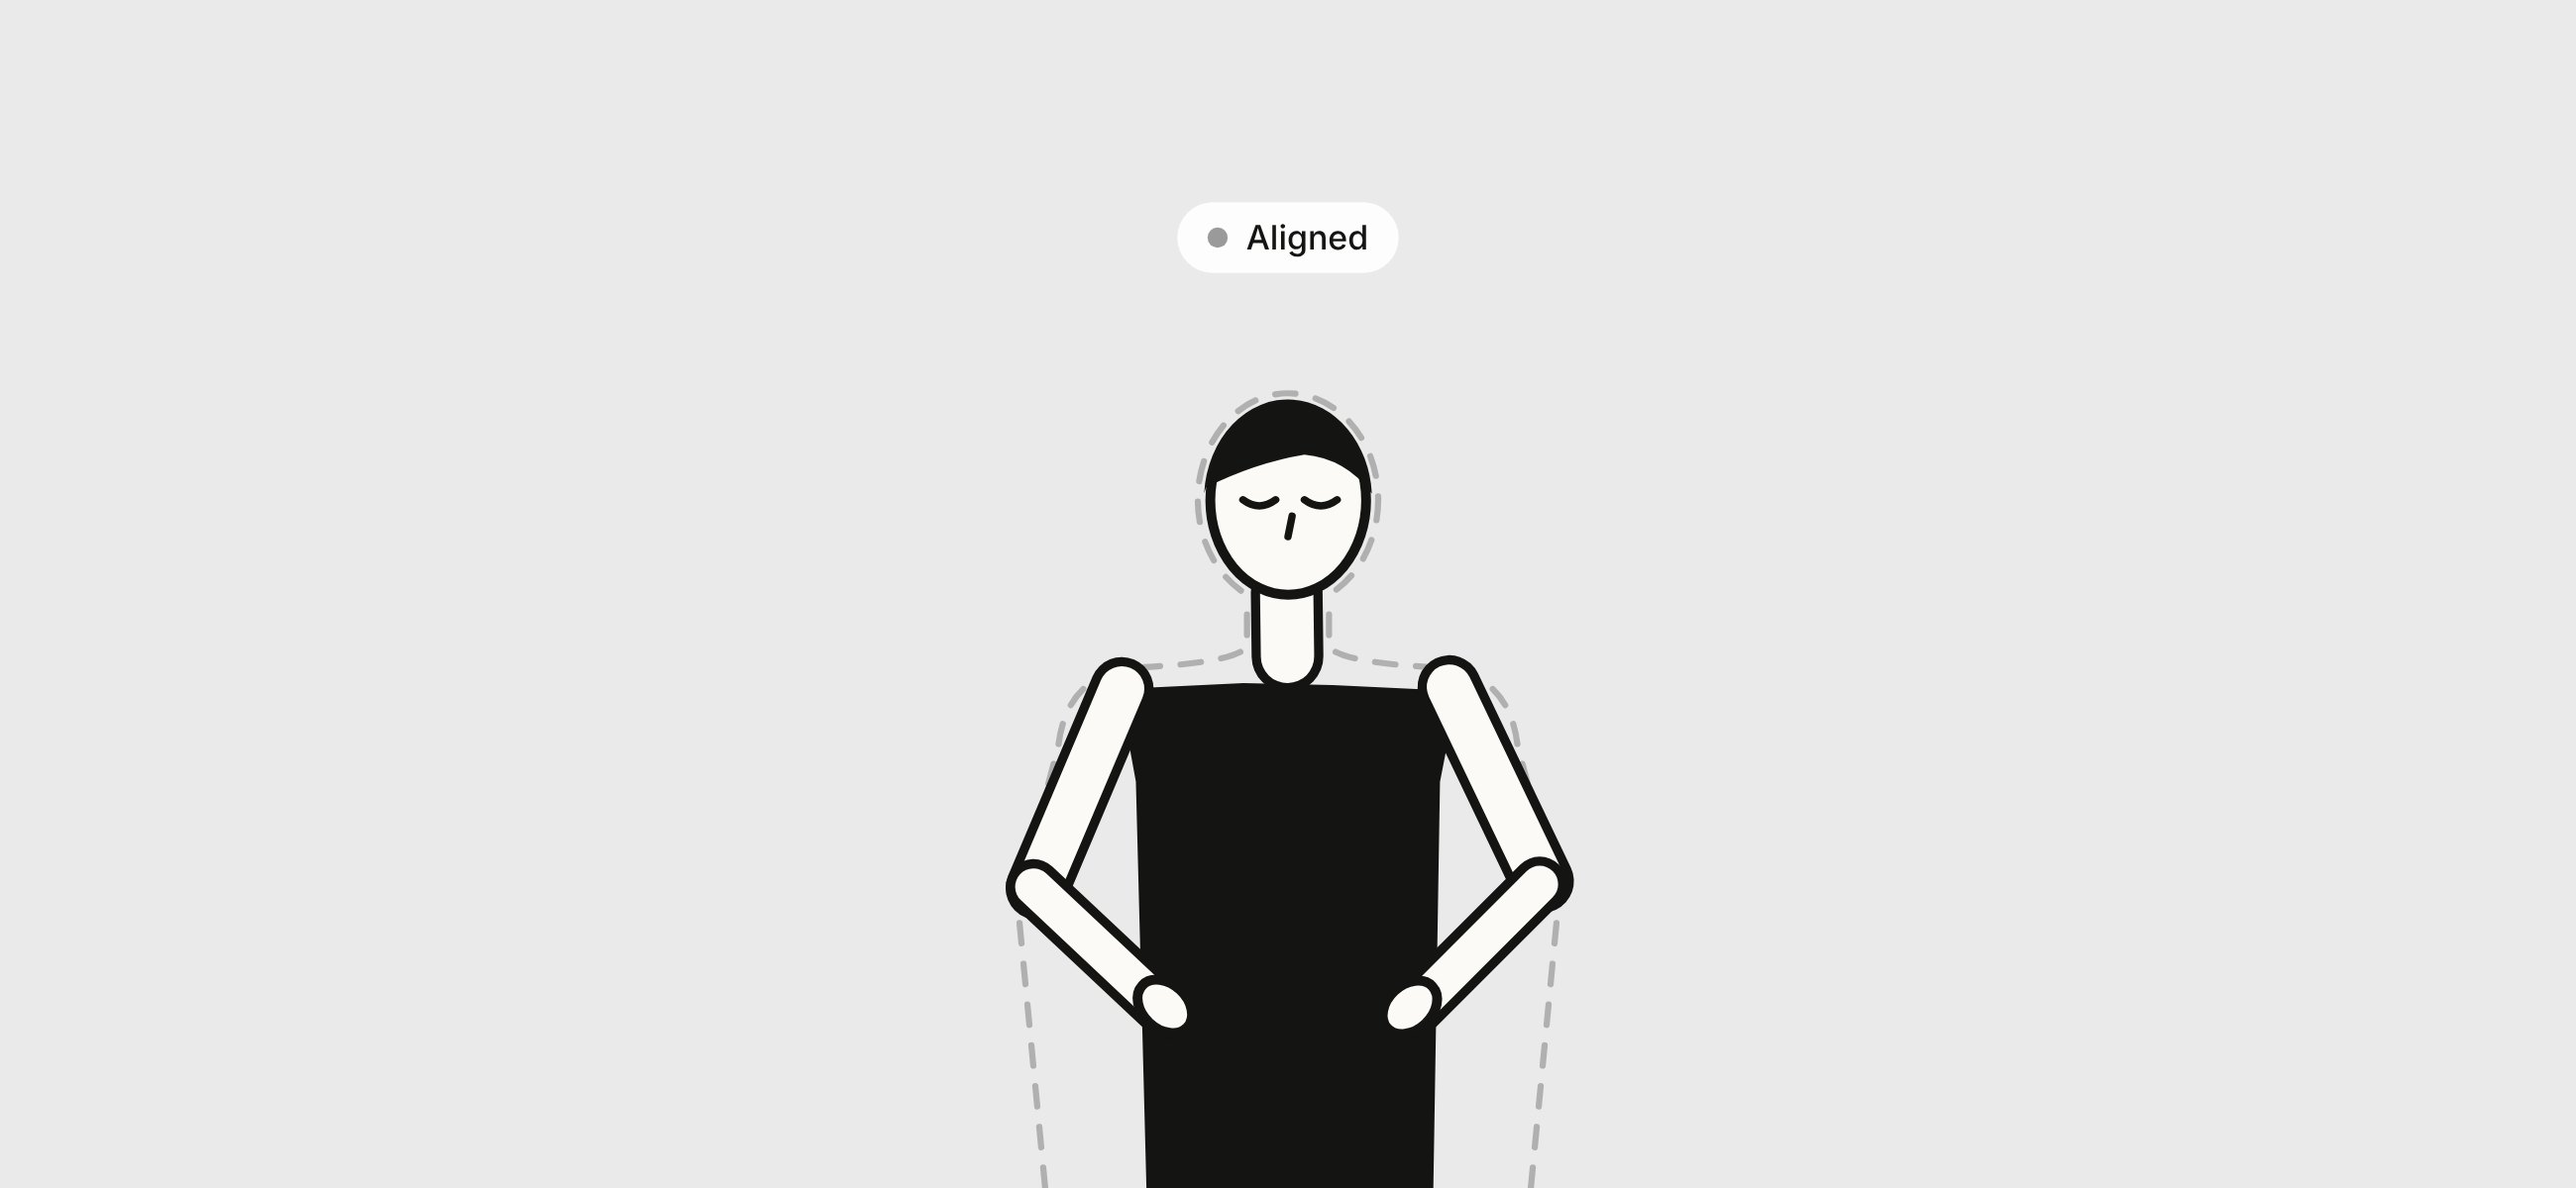
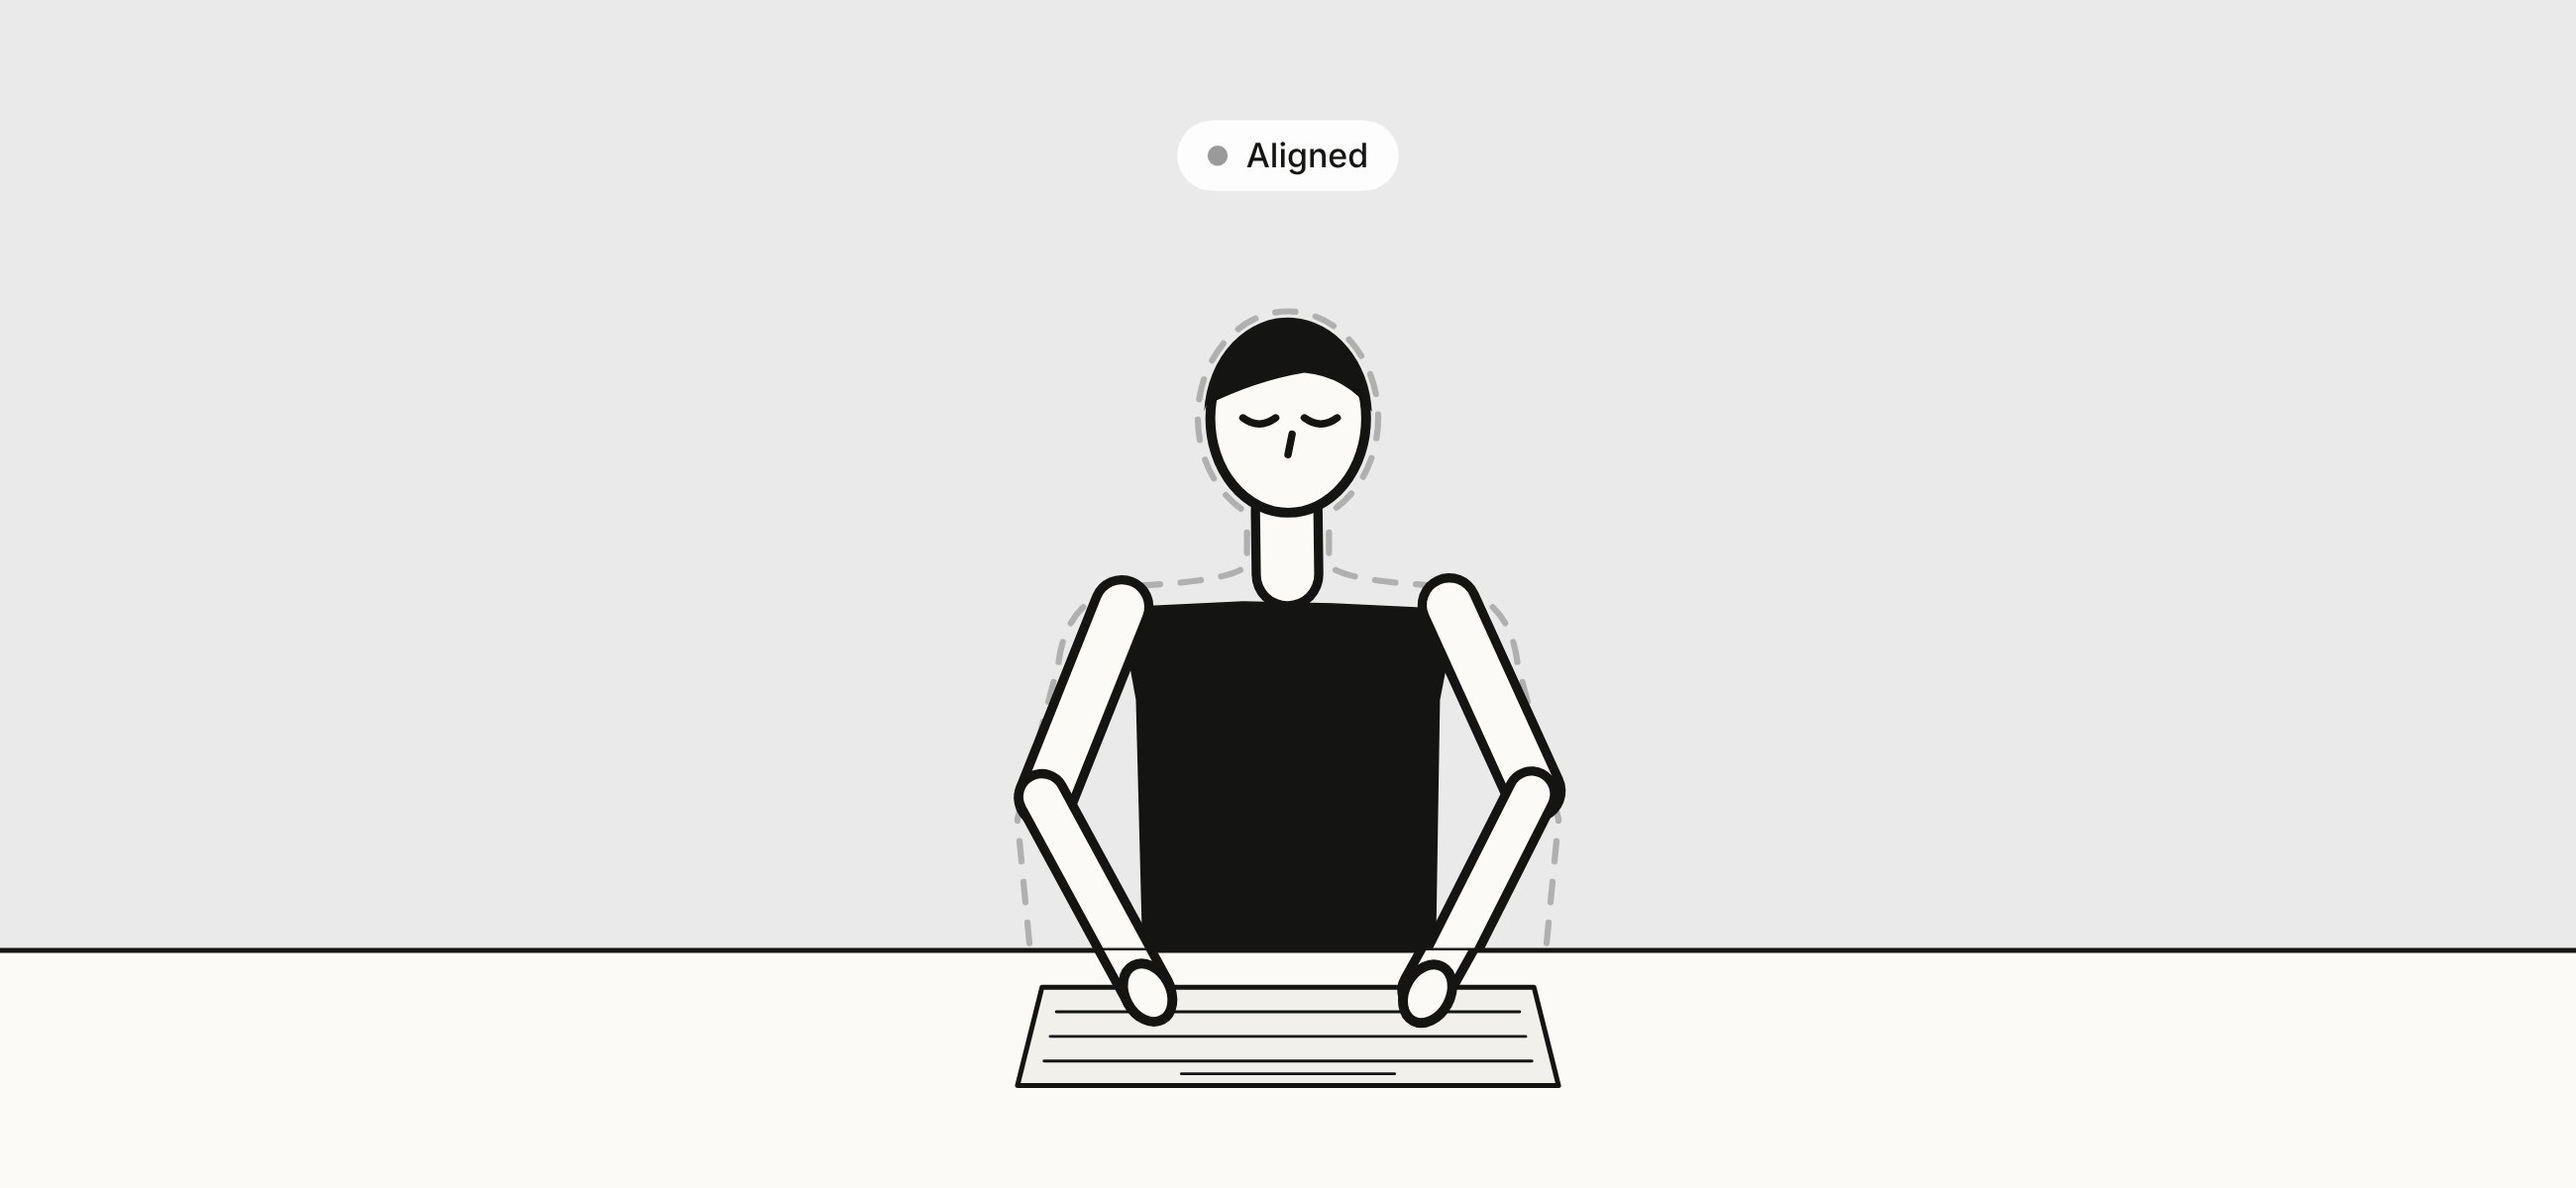
Poise thumbnail: a desk and keyboard in front of the figure, hands resting on the keys
Claude-Session: https://claude.ai/code/session_01UHSuVgL78FHF3ZiXhWhDac

Changed region(s): [[0.0, 0.2467, 1.0, 1.0], [0.4673, 0.185, 0.5296, 0.2158], [0.4673, 0.1233, 0.5296, 0.1542]]

diff --git a/poise-motion.html b/poise-motion.html
@@ -50,6 +50,7 @@ function drawFigure(ctx, P, { j = () => 0, ink, paper }) {
   const SL = [-40 * sw, -116 + drop + sd], SR = [40 * sw, -116 + drop + sd];
   const NECK = [hx * .35, -124 + drop + sd];
   ctx.save(); ctx.translate(0, -10); ctx.rotate(P.bend || 0); ctx.translate(0, 10);
+  if (!P.armsOnly) {
   // tee
   ctx.fillStyle = ink;
   poly([[SL[0] - 2, SL[1] + 1], [NECK[0] - 11, NECK[1] + 7], [NECK[0] + 11, NECK[1] + 7], [SR[0] + 2, SR[1] + 1], [37 * (1 - .07 * tb), SR[1] + 22], [34, 60], [-34, 60], [-37 * (1 - .07 * tb), SL[1] + 22]]);
@@ -71,6 +72,7 @@ function drawFigure(ctx, P, { j = () => 0, ink, paper }) {
   ctx.moveTo(4, 0); ctx.quadraticCurveTo(8, 3, 12, 0);
   ctx.moveTo(1, 4); ctx.lineTo(0, 9); ctx.stroke();
   ctx.restore();
+  }
   // arms resting on the desk
   for (const [s0, e, w] of [[SR, P.eR, P.wR], [SL, P.eL, P.wL]]) {
     const el = [e[0], e[1] + drop], wr = [w[0], w[1] + drop];
@@ -82,7 +84,7 @@ function drawFigure(ctx, P, { j = () => 0, ink, paper }) {
 }
 
 /* ---------- the loop: poses, how long each holds, and its colour ---------- */
-const ARMS = { eL: [-62, -68], wL: [-30, -38], eR: [62, -68], wR: [30, -38] };   // forearms bent in, hands resting in front, so they stay in frame
+const ARMS = { eL: [-60, -70], wL: [-34, -22], eR: [60, -70], wR: [34, -22] };   // forearms reach down to the keyboard on the desk
 const Z = { fwd: 0, zoom: 1, tipBack: 0, bend: 0, head: 0, hx: 0, drop: 0 };
 const POSES = [
   { p: {}, c: null, label: 'Aligned', hold: 2.2 },
@@ -159,7 +161,7 @@ function frame(now) {
 
   // framing: upper body, cut at the waist by the bottom edge, like the camera view in the app
   const fitW = 205, fitH = GQ === 'pn' || W / H > 1.6 ? 290 : 236, s = Math.min(W / fitW, H / fitH);
-  const ax = W / 2, ay = H + s * 24;   // cut at the waist by the bottom edge, like the camera view
+  const ax = W / 2, ay = H + s * 4;   // waist just below the bottom edge; the desk covers the lower body
   const ink = '#141412', paper = '#FBFAF6';   // the app's ink figure, in both themes
 
   // where you sat when you saved your reference: a faint dashed outline
@@ -176,6 +178,28 @@ function frame(now) {
   const zoom = S.zoom, breath = STILL ? 0 : Math.sin(time * 1.4) * 1.2;
   ctx.save(); ctx.translate(ax, ay + s * -130 * (1 - zoom)); ctx.scale(s * zoom, s * zoom); ctx.translate(0, -30);
   drawFigure(ctx, { ...ARMS, ...S, breath }, { j: jit, ink, paper });
+  ctx.restore();
+
+  // the desk in front: covers the lower body, with a simple keyboard the hands rest on
+  const deskY = ay - s * 62, kw = s * 132, kTop = deskY + s * 9, kH = s * 24;
+  const dInk = dark ? '#D8D8D6' : ink;
+  ctx.fillStyle = dark ? '#3A3A3B' : paper; ctx.fillRect(0, deskY, W, H - deskY);
+  ctx.strokeStyle = dInk; ctx.lineWidth = Math.max(1.5, s * 1.2); ctx.lineCap = 'round'; ctx.lineJoin = 'round';
+  ctx.beginPath(); ctx.moveTo(0, deskY); ctx.lineTo(W, deskY); ctx.stroke();
+  // keyboard in perspective: narrower at the back, wider at the front
+  const kx = ax - kw / 2, inset = s * 6;
+  ctx.fillStyle = dark ? '#4A4A4C' : '#F1F0EB';
+  ctx.beginPath(); ctx.moveTo(kx + inset, kTop); ctx.lineTo(kx + kw - inset, kTop); ctx.lineTo(kx + kw, kTop + kH); ctx.lineTo(kx, kTop + kH); ctx.closePath(); ctx.fill(); ctx.stroke();
+  ctx.lineWidth = Math.max(1, s * .7);
+  for (let r = 1; r < 4; r++) {   // key rows
+    const y = kTop + kH * r / 4, k = r / 4, l = kx + inset * (1 - k) + s * 5, rr = kx + kw - inset * (1 - k) - s * 5;
+    ctx.beginPath(); ctx.moveTo(l, y); ctx.lineTo(rr, y); ctx.stroke();
+  }
+  ctx.beginPath(); ctx.moveTo(ax - s * 26, kTop + kH * .88); ctx.lineTo(ax + s * 26, kTop + kH * .88); ctx.stroke();   // space bar
+  // the forearms and hands come back on top of the desk, resting on the keyboard
+  ctx.save(); ctx.beginPath(); ctx.rect(0, deskY, W, H - deskY); ctx.clip();
+  ctx.translate(ax, ay + s * -130 * (1 - zoom)); ctx.scale(s * zoom, s * zoom); ctx.translate(0, -30);
+  drawFigure(ctx, { ...ARMS, ...S, breath, armsOnly: true }, { j: jit, ink, paper });
   ctx.restore();
 
   // live status chip above the head: a dot in the posture colour and what is happening right now
